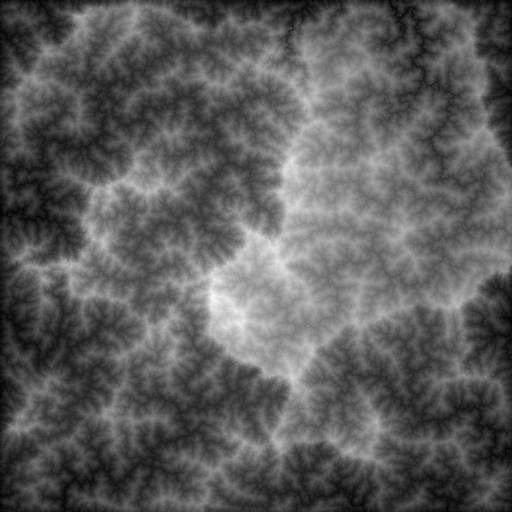
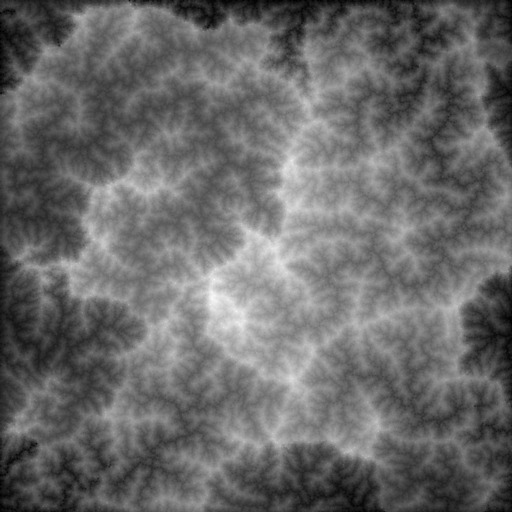
Added Kriging interpolation
3 models: Exponential, Spherical and Gaussian

diff --git a/src/main/java/com/github/keyboardcat1/erosio/interpolation/InterpolatorKriging.java b/src/main/java/com/github/keyboardcat1/erosio/interpolation/InterpolatorKriging.java
@@ -1,0 +1,123 @@
+package com.github.keyboardcat1.erosio.interpolation;
+
+import com.github.keyboardcat1.erosio.EroderResults;
+import org.ejml.simple.SimpleMatrix;
+import org.kynosarges.tektosyne.geometry.PointD;
+
+import java.util.Arrays;
+import java.util.List;
+import java.util.Map;
+
+/**
+ * A class interpolating with Kriging interpolation
+ */
+public class InterpolatorKriging extends Interpolator {
+    /**
+     * The variogram {@link Model} used to calculate variances
+     */
+    public final Model model;
+    /**
+     * The nugget parameter in the variogram formula
+     */
+    public final double nugget;
+    /**
+     * The sill parameter in the variogram formula
+     */
+    public final double sill;
+    /**
+     * The range parameter in the variogram formula
+     */
+    public final double range;
+    /**
+     * The <i>a<i/> coefficient in the exponential and gaussian variogram formulas
+     */
+    public final double a;
+
+
+    /**
+     * A class interpolating with Kriging interpolation
+     *
+     * @param eroderResults The {@link EroderResults} to interpolate
+     * @param model         The variogram {@link Model} used to calculate variances
+     * @param nugget        The nugget parameter in the variogram formula
+     * @param sill          The sill parameter in the variogram formula
+     * @param range         The range parameter in the variogram formula
+     * @param a             The <i>a<i/> coefficient in the exponential and gaussian variogram formulas
+     */
+    public InterpolatorKriging(EroderResults eroderResults, Model model, double nugget, double sill, double range, double a) {
+        super(eroderResults);
+        this.model = model;
+        this.nugget = nugget;
+        this.sill = sill;
+        this.range = range;
+        this.a = a;
+    }
+
+    @Override
+    public double interpolate(PointD point) {
+        List<Map.Entry<PointD, Double>> neighbors = quadTree.findRange(point, range).entrySet().stream().toList();
+
+        SimpleMatrix matrix = new SimpleMatrix(neighbors.size() + 1, neighbors.size() + 1);
+        double[] edge = new double[neighbors.size() + 1];
+        Arrays.fill(edge, 1);
+        edge[edge.length - 1] = 0;
+        matrix.setRow(neighbors.size(), 0, edge);
+        matrix.setColumn(neighbors.size(), 0, edge);
+        for (int i = 0; i <= neighbors.size(); i++)
+            for (int j = 0; j <= neighbors.size(); j++) {
+                double lagDistance = i < neighbors.size() && j < neighbors.size() ?
+                        neighbors.get(i).getKey().subtract(neighbors.get(j).getKey()).length() :
+                        matrix.get(i, j);
+                matrix.set(i, j, semiVariance(lagDistance));
+            }
+
+        SimpleMatrix vector = new SimpleMatrix(neighbors.size() + 1, 1);
+        for (int i = 0; i < neighbors.size(); i++)
+            vector.set(i, 0, neighbors.get(i).getKey().subtract(point).length());
+        vector.set(neighbors.size(), 0, 1);
+
+        SimpleMatrix weights = matrix.solve(vector);
+
+        double out = 0.0D;
+        for (int i = 0; i < neighbors.size(); i++)
+            out += weights.get(i, 0) * neighbors.get(i).getValue();
+
+        if (out < eroderResults.minHeight)
+            return eroderResults.minHeight;
+        else return Math.min(out, eroderResults.maxHeight);
+    }
+
+
+    private double semiVariance(double h) {
+        switch (model) {
+            case EXPONENTIAL -> {
+                return (sill - nugget)
+                        * (1 - Math.exp(-h / (range * a)))
+                        + nugget * (h > 0 ? 1 : 0);
+            }
+            case SPHERICAL -> {
+                return (sill - nugget)
+                        * (((3 * h) / (2 * range) - (h * h * h) / (2 * range * range * range)) * (h > 0 && h < range ? 1 : 0) + (h >= range ? 1 : 0))
+                        + nugget * (h > 0 ? 1 : 0);
+            }
+            case GAUSSIAN -> {
+                return (sill - nugget)
+                        * (1 - Math.exp(-(h * h / (range * range * a))))
+                        + nugget * (h > 0 ? 1 : 0);
+            }
+        }
+
+        return Double.NaN;
+    }
+
+    /**
+     * The variogram models that can be used to calculate variances
+     *
+     * @see <a href=https://en.wikipedia.org/wiki/Variogram#Variogram_models>Variogram models<a/>
+     */
+    public enum Model {
+        EXPONENTIAL,
+        SPHERICAL,
+        GAUSSIAN
+    }
+}

diff --git a/src/main/java/com/github/keyboardcat1/erosio/interpolation/InterpolatorIDW.java b/src/main/java/com/github/keyboardcat1/erosio/interpolation/InterpolatorIDW.java
@@ -37,8 +37,9 @@ public class InterpolatorIDW extends Interpolator {
         double denominator = 0.0D;
         for (Map.Entry<PointD, Double> entry : quadTree.findRange(point, radius).entrySet()) {
             PointD node = entry.getKey();
+            double height = entry.getValue();
             double W = Math.pow(point.subtract(node).lengthSquared(), exponent * -0.5D);
-            numerator += eroderResults.heightMap.get(node) * W;
+            numerator += height * W;
             denominator += W;
         }
         return numerator / denominator;

diff --git a/src/main/java/com/github/keyboardcat1/erosio/interpolation/InterpolatorNN.java b/src/main/java/com/github/keyboardcat1/erosio/interpolation/InterpolatorNN.java
@@ -9,14 +9,14 @@ import java.util.List;
 /**
  * A class interpolating by nearest neighbor
  */
-public class InterpolatorNearest extends Interpolator {
+public class InterpolatorNN extends Interpolator {
 
     /**
      * A class interpolating by nearest neighbor
      *
      * @param eroderResults The {@link EroderResults} to interpolate
      */
-    public InterpolatorNearest(EroderResults eroderResults) {
+    public InterpolatorNN(EroderResults eroderResults) {
         super(eroderResults);
     }
 

diff --git a/src/main/java/com/github/keyboardcat1/erosio/interpolation/Interpolator.java b/src/main/java/com/github/keyboardcat1/erosio/interpolation/Interpolator.java
@@ -9,13 +9,13 @@ import org.kynosarges.tektosyne.geometry.PointD;
  */
 public abstract class Interpolator {
     /**
+     * The {@link EroderResults} to interpolate
+     */
+    public EroderResults eroderResults;
+    /**
      * The quadtree storing all the sample points
      */
     protected final QuadTree<Double> quadTree;
-    /**
-     * The {@link EroderResults} to interpolate
-     */
-    protected EroderResults eroderResults;
 
     /**
      * The base interpolation class

diff --git a/README.md b/README.md
@@ -36,20 +36,18 @@ EroderGeometry eroderGeometry = new EroderGeometryNatural(
 // Erode
 EroderResults results = Eroder.erode(settings, eroderGeometry);
 
-// Interpolate height
-Interpolator interp = new InterpolatorNearest(results);
-// or
-Interpolator interp = new InterpolatorIDW(results, /*exponent*/ 2, /*radius*/ 5);
-
+// Interpolate height by nearest neighbor
+Interpolator interp = new InterpolatorNN(results);
 // at point (2.0, 3.0)
 double height = interp.interpolate(2.0, 3.0);
 ```
 
 <p align="center">
-    <img src="images/NN.png"  alt="NN interpolated heightmap" width="40%"/>
-    <img src="images/IDW.png"  alt="IDW interpolated heightmap" width="40%"/>
+    <img src="images/NN.png"  alt="NN interpolated heightmap" width="30%"/>
+    <img src="images/IDW.png"  alt="IDW interpolated heightmap" width="30%"/>
+<img src="images/Kriging.png"  alt="Kriging interpolated heightmap" width="30%"/>
     <br/>
-    <em>Resulting heightmap computed in 10 seconds (IDW interp. on the right)</em>
+    <em>Resulting heightmap computed in 10 seconds (left NN, center IDW, right Kriging)</em>
 </p>
 
 ## Usage
